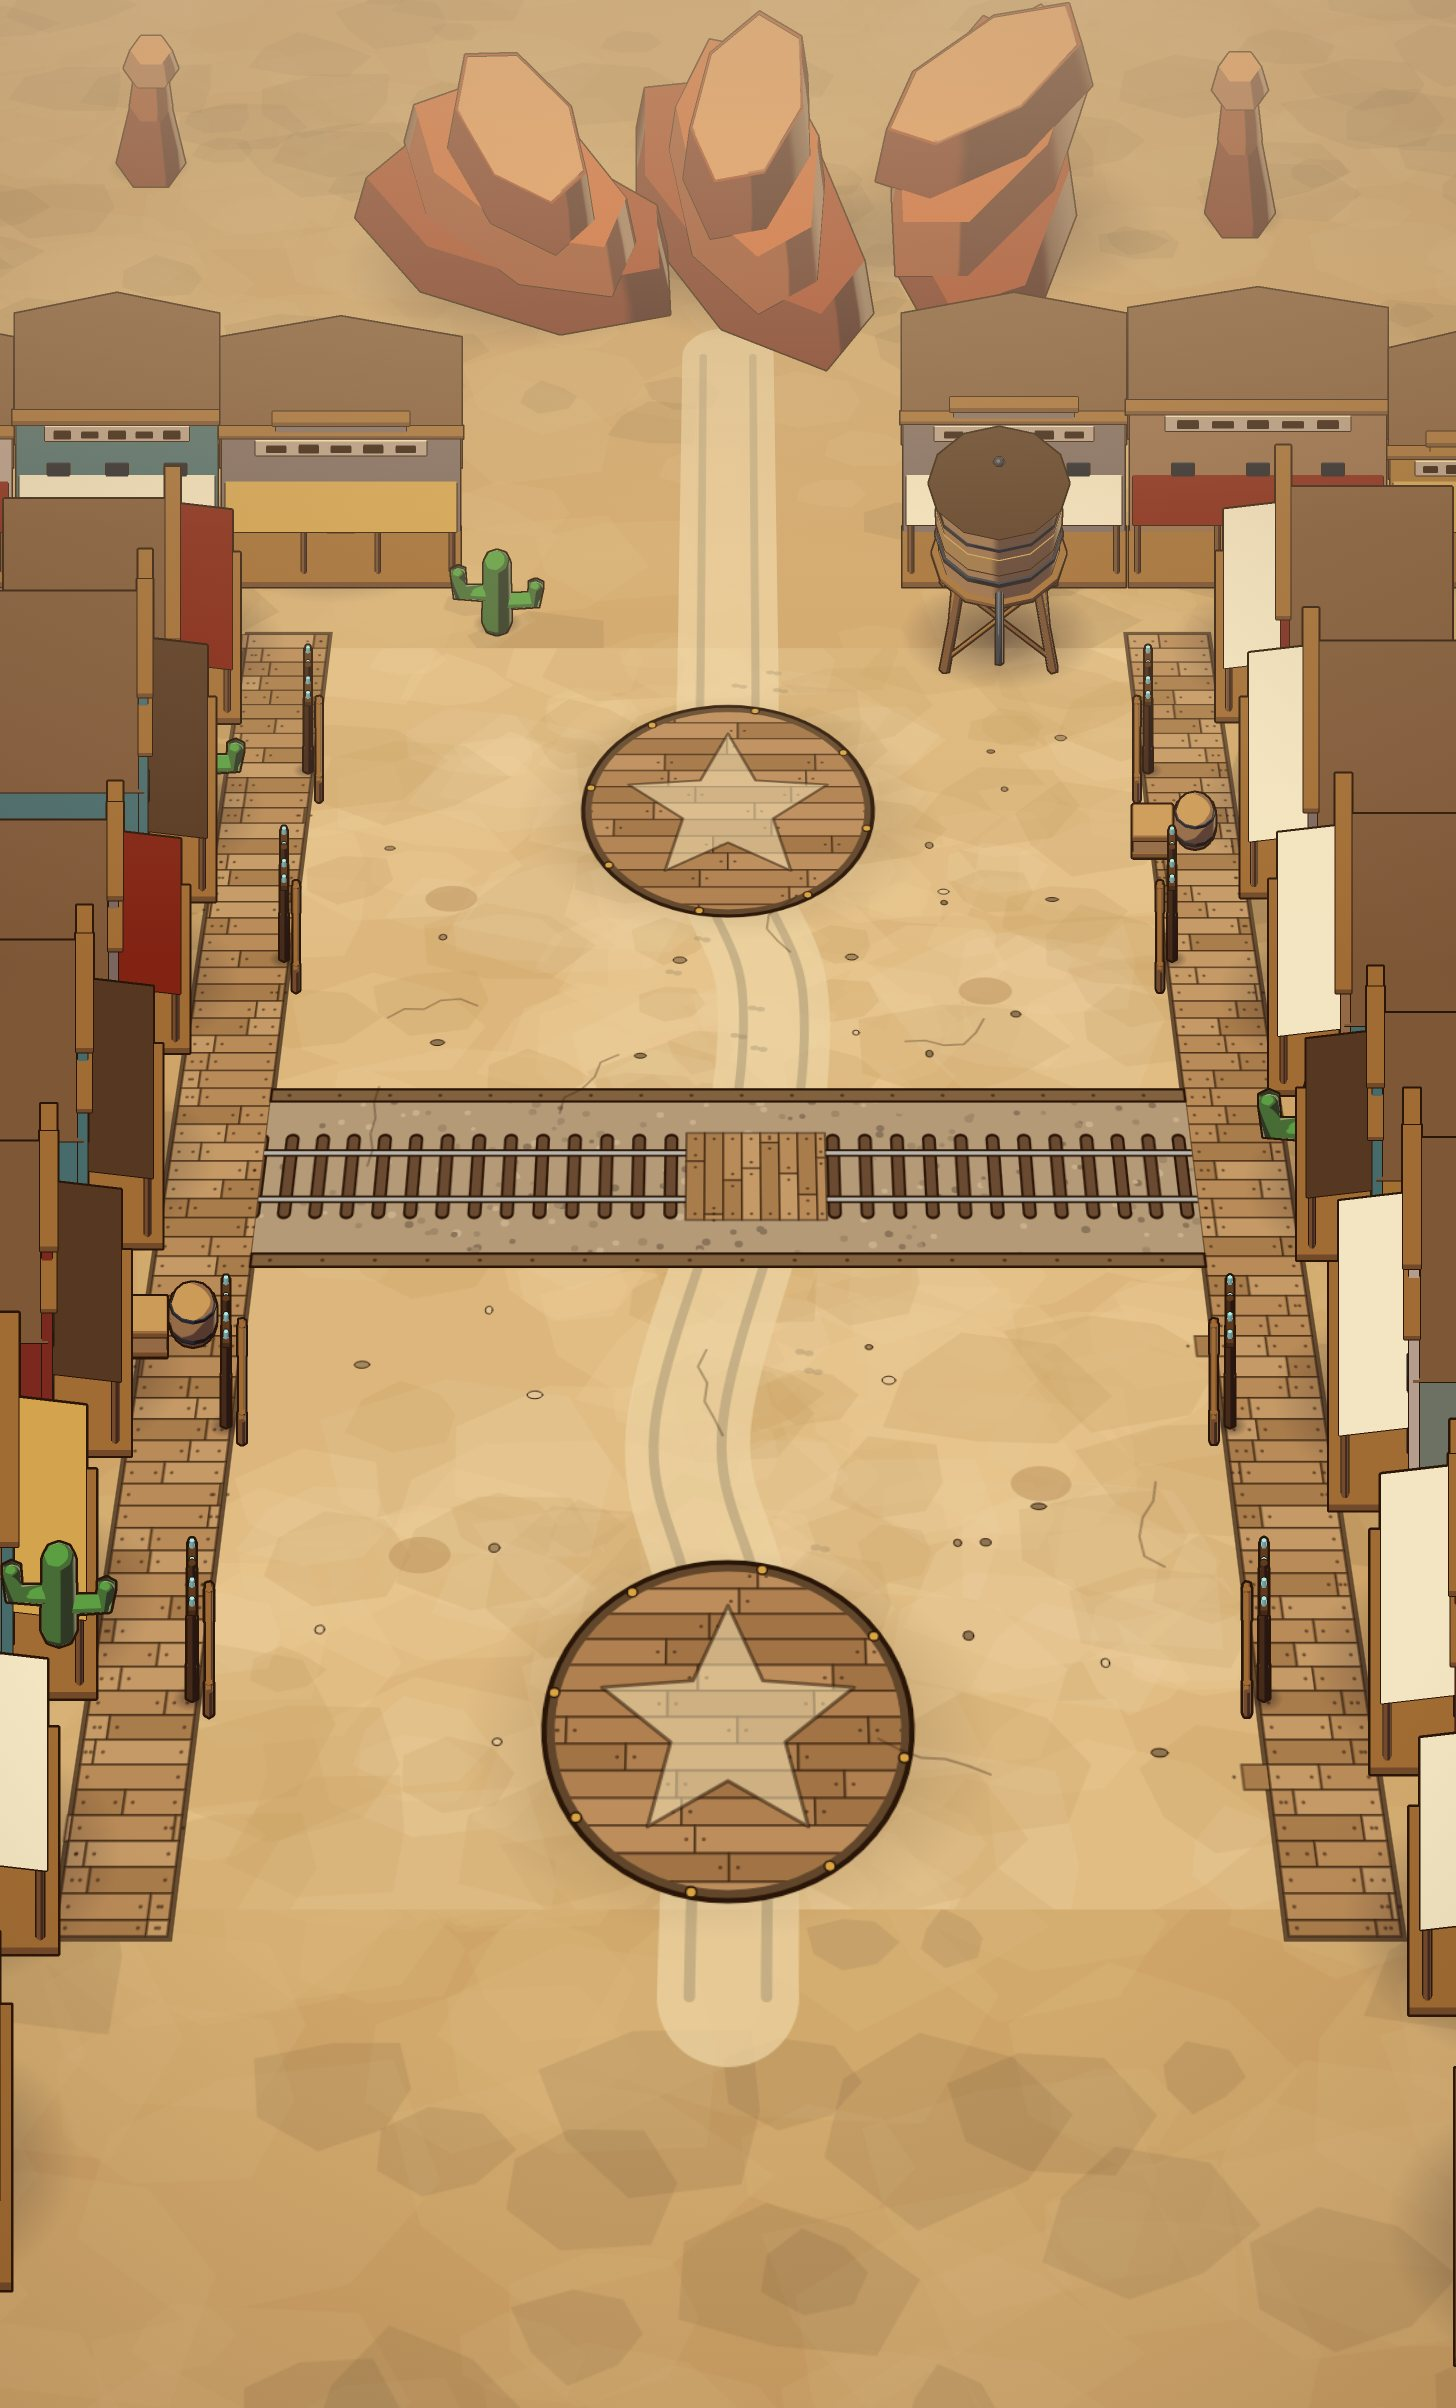
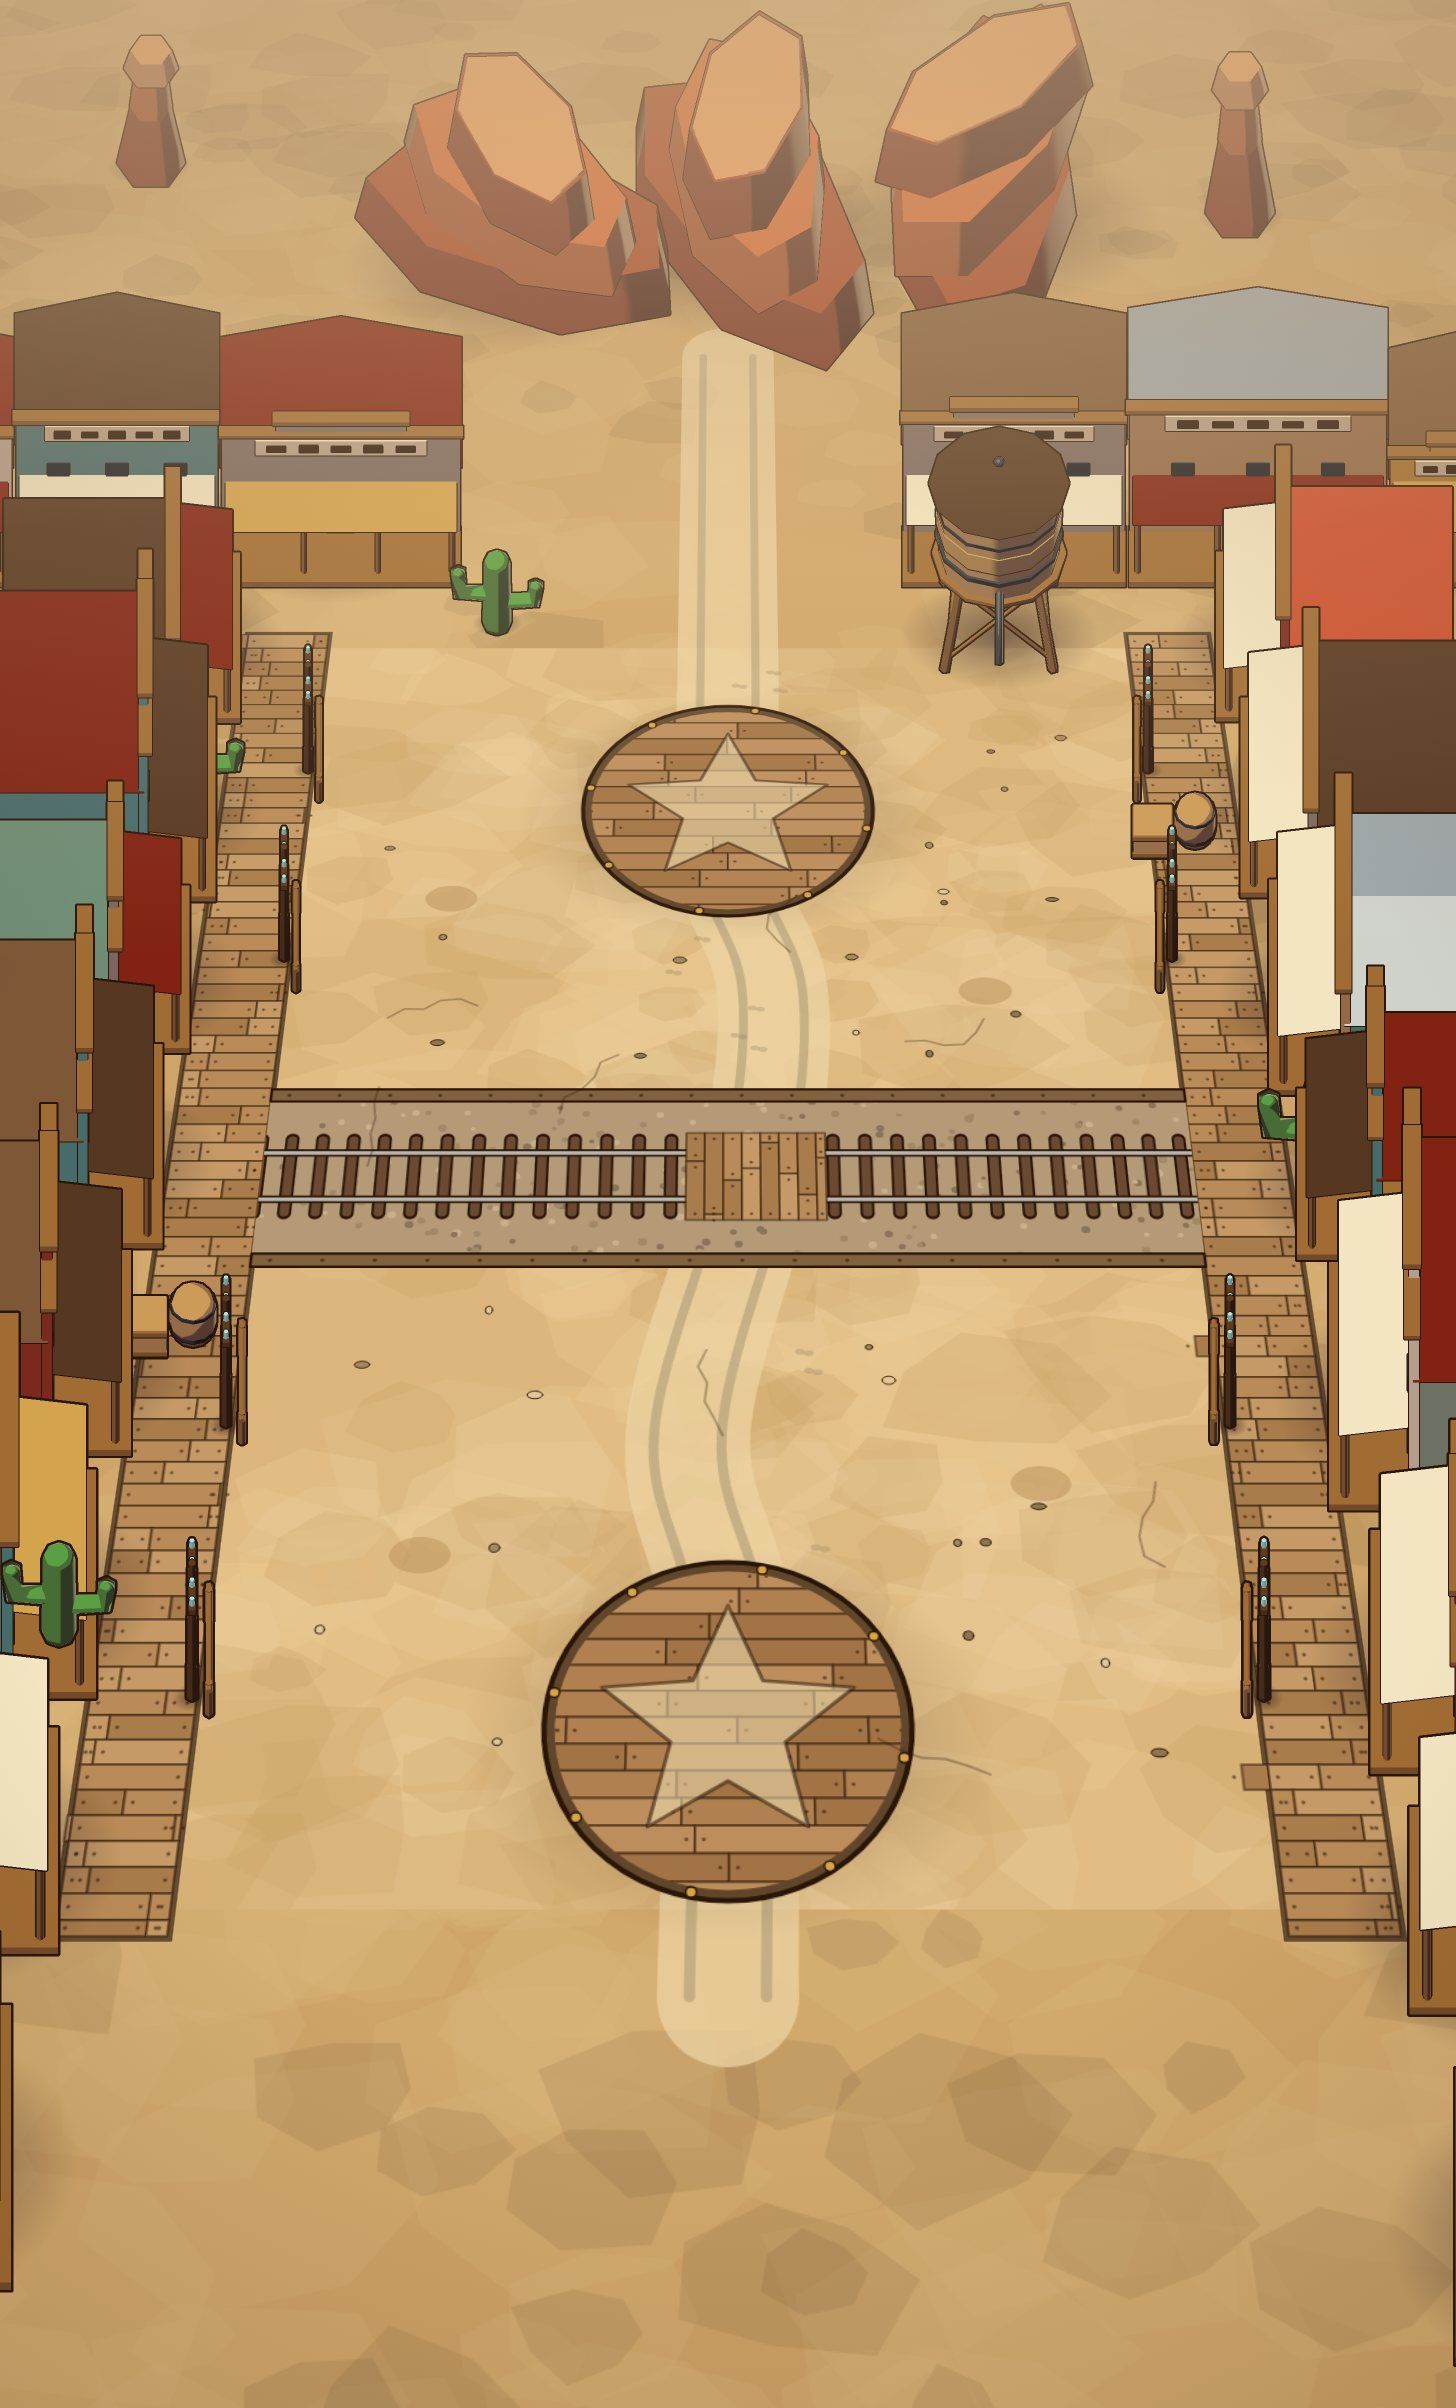
Dustline: varied roofs, lower map camera, ladder thumbnails, Stockade HUD

Changed region(s): [[0.7727, 0.0934, 1.0, 0.5918], [0.0, 0.1246, 0.34, 0.4049]]

diff --git a/games/dustline/art/flat.ts b/games/dustline/art/flat.ts
@@ -85,7 +85,7 @@ export const MAPS: MapArt = {
       const x = p.rand(20, map.w - 20), y = p.rand(120, map.h - 40);
       if (blocked(x, y, 96) || spots.some((s) => Math.abs(s.y - y) < 60 && Math.abs((s as { x?: number }).x! - x) < 96)) continue;
       const v = Math.floor(p.r() * th.scatter.length);
-      spots.push(Object.assign({ y, draw: () => st.model(p, th.scatter[v], x, y, { ppu: 46, yaw: v % 2 ? 62 : 118, el: 52, key: `${id}s${v}`, shadow: 0.9 }) }, { x }));
+      spots.push(Object.assign({ y, draw: () => st.model(p, th.scatter[v], x, y, { ppu: 48, yaw: v % 2 ? 72 : 108, el: 40, key: `${id}s${v}`, shadow: 0.9 }) }, { x }));
       i++;
     }
     const lx = map.boss[0] + (map.boss[0] > map.w / 2 ? -250 : 250);
@@ -188,7 +188,7 @@ export const TDART: TdArt = {
       if (!free(px, py, 1.0)) { if (free(px, py, 0.2) && p.r() < 0.4) spots.push({ y: py, draw: () => st.model(p, (m) => cactus(m, 1.1, 1), px, py, { ppu: 72, el: 53.13, key: "tdcactus", shadow: 0.15 }) }); continue; }
       const v = Math.floor(p.r() * th.scatter.length);
       if (p.r() < 0.55) { if (p.r() < 0.5) spots.push({ y: py, draw: () => st.model(p, (m) => (v % 2 ? cactus(m, 1.3, 2) : boulder(m, 0.5, 0.3)), px, py, { ppu: 72, el: 53.13, key: `tdx${v % 2}`, shadow: 0.2 }) }); continue; }
-      spots.push({ y: py, draw: () => st.model(p, th.scatter[v], px, py, { ppu: 72, yaw: v % 2 ? 60 : 120, el: 53.13, key: `td${map.act}s${v}`, shadow: 0.9 }) });
+      spots.push({ y: py, draw: () => st.model(p, th.scatter[v], px, py, { ppu: 72, yaw: v % 2 ? 74 : 106, el: 53.13, key: `td${map.act}s${v}`, shadow: 0.9 }) });
     }
     spots.sort((a, b) => a.y - b.y).forEach((s) => s.draw());
   },

diff --git a/games/dustline/art/scenery.ts b/games/dustline/art/scenery.ts
@@ -17,13 +17,14 @@ export const S = {
   sign: mat("#f0e2b8"), signInk: mat("#3a2414"),
 };
 
+const ROOFS = [S.shingle, S.tin, S.barnDk, S.shingleDk, mat("#6f8a78"), S.tile];
 /** A false-front store: a plain shed behind a tall flat facade with a cornice and a sign, a porch roof on posts and
  *  a boardwalk. `w` runs along y, `d` back along -x, `h` is the shed's eaves. */
-export function falseFront(m: Model, o: { w: number; d?: number; h?: number; wall?: Material; front?: Material; trim?: Material; awning?: Material | null; lit?: boolean; seed?: number; storeys?: number; sign?: boolean }) {
+export function falseFront(m: Model, o: { w: number; d?: number; h?: number; wall?: Material; front?: Material; trim?: Material; awning?: Material | null; lit?: boolean; seed?: number; storeys?: number; sign?: boolean; roof?: Material }) {
   const w = o.w, d = o.d ?? 2, h = o.h ?? 1.5, wall = o.wall ?? S.pine, front = o.front ?? wall, trim = o.trim ?? S.pineDk, seed = o.seed ?? 1, st = o.storeys ?? 1;
   const fh = h + 0.55 + 0.1 * (seed % 3), step = seed % 2 === 0;
   m.box([-d / 2, 0, h / 2], [d, w, h], wall);
-  m.with(() => { m.move(-d / 2, 0, h).rotZ(90); m.extrude([[-w / 2 - 0.06, 0], [w / 2 + 0.06, 0], [0, 0.45]], d + 0.1, S.shingle); });
+  m.with(() => { m.move(-d / 2, 0, h).rotZ(90); m.extrude([[-w / 2 - 0.06, 0], [w / 2 + 0.06, 0], [0, 0.45]], d + 0.1, o.roof ?? ROOFS[seed % ROOFS.length]); });
   // the facade
   m.box([0.04, 0, fh / 2], [0.1, w + 0.08, fh], front);
   if (step) m.box([0.04, 0, fh + 0.14], [0.1, w * 0.56, 0.28], front);

diff --git a/games/dustline/src/game/theme.css b/games/dustline/src/game/theme.css
@@ -396,7 +396,7 @@ html, body { background: #3a2210; }
 :root .ar-tile.ghost { background: linear-gradient(180deg, var(--r) 0 5px, #cdb98c 5px); }
 
 /* ---------------------------------------------------------------- High Noon ladder */
-:root .ar-thumb { border-radius: 2px; background: #dcb67c; box-shadow: 0 0 0 2px var(--k-ink), 2px 3px 0 rgba(30, 12, 0, 0.4); }
+:root .ar-thumb { border-radius: 2px; background: #a8743f; box-shadow: 0 0 0 2px var(--k-ink), 2px 3px 0 rgba(30, 12, 0, 0.4); }
 :root .ar-badge { border-radius: 3px; }
 
 /* ---------------------------------------------------------------- the rail stands on a dark sill, so screens do not show through it */
@@ -425,3 +425,11 @@ html, body { background: #3a2210; }
 :root .tile-id { font-size: 25px; color: #fff3d6; }
 :root .tile-name { font-size: 11.5px; color: #fff3d6; }
 :root .tile-crown { border-radius: 2px; }
+
+/* ---------------------------------------------------------------- Stockade (tower defence) */
+:root .td-run { background: #c79a5e; }
+:root .td-chip { border-radius: 3px; background: var(--dl-wood); font-family: var(--display); }
+:root .td-hp { border-radius: 2px; } :root .td-toast { border-radius: 3px; }
+:root .td-unit { border-radius: 2px; background: var(--dl-paper); } :root .td-port.big { border-radius: 2px; }
+:root .td-result-card { border-radius: 3px; background: var(--dl-paper); } :root .td-result-lines > div { border-radius: 2px; }
+:root .btn.td-follow { padding-left: 14px; padding-right: 14px; font-size: 13px; }
